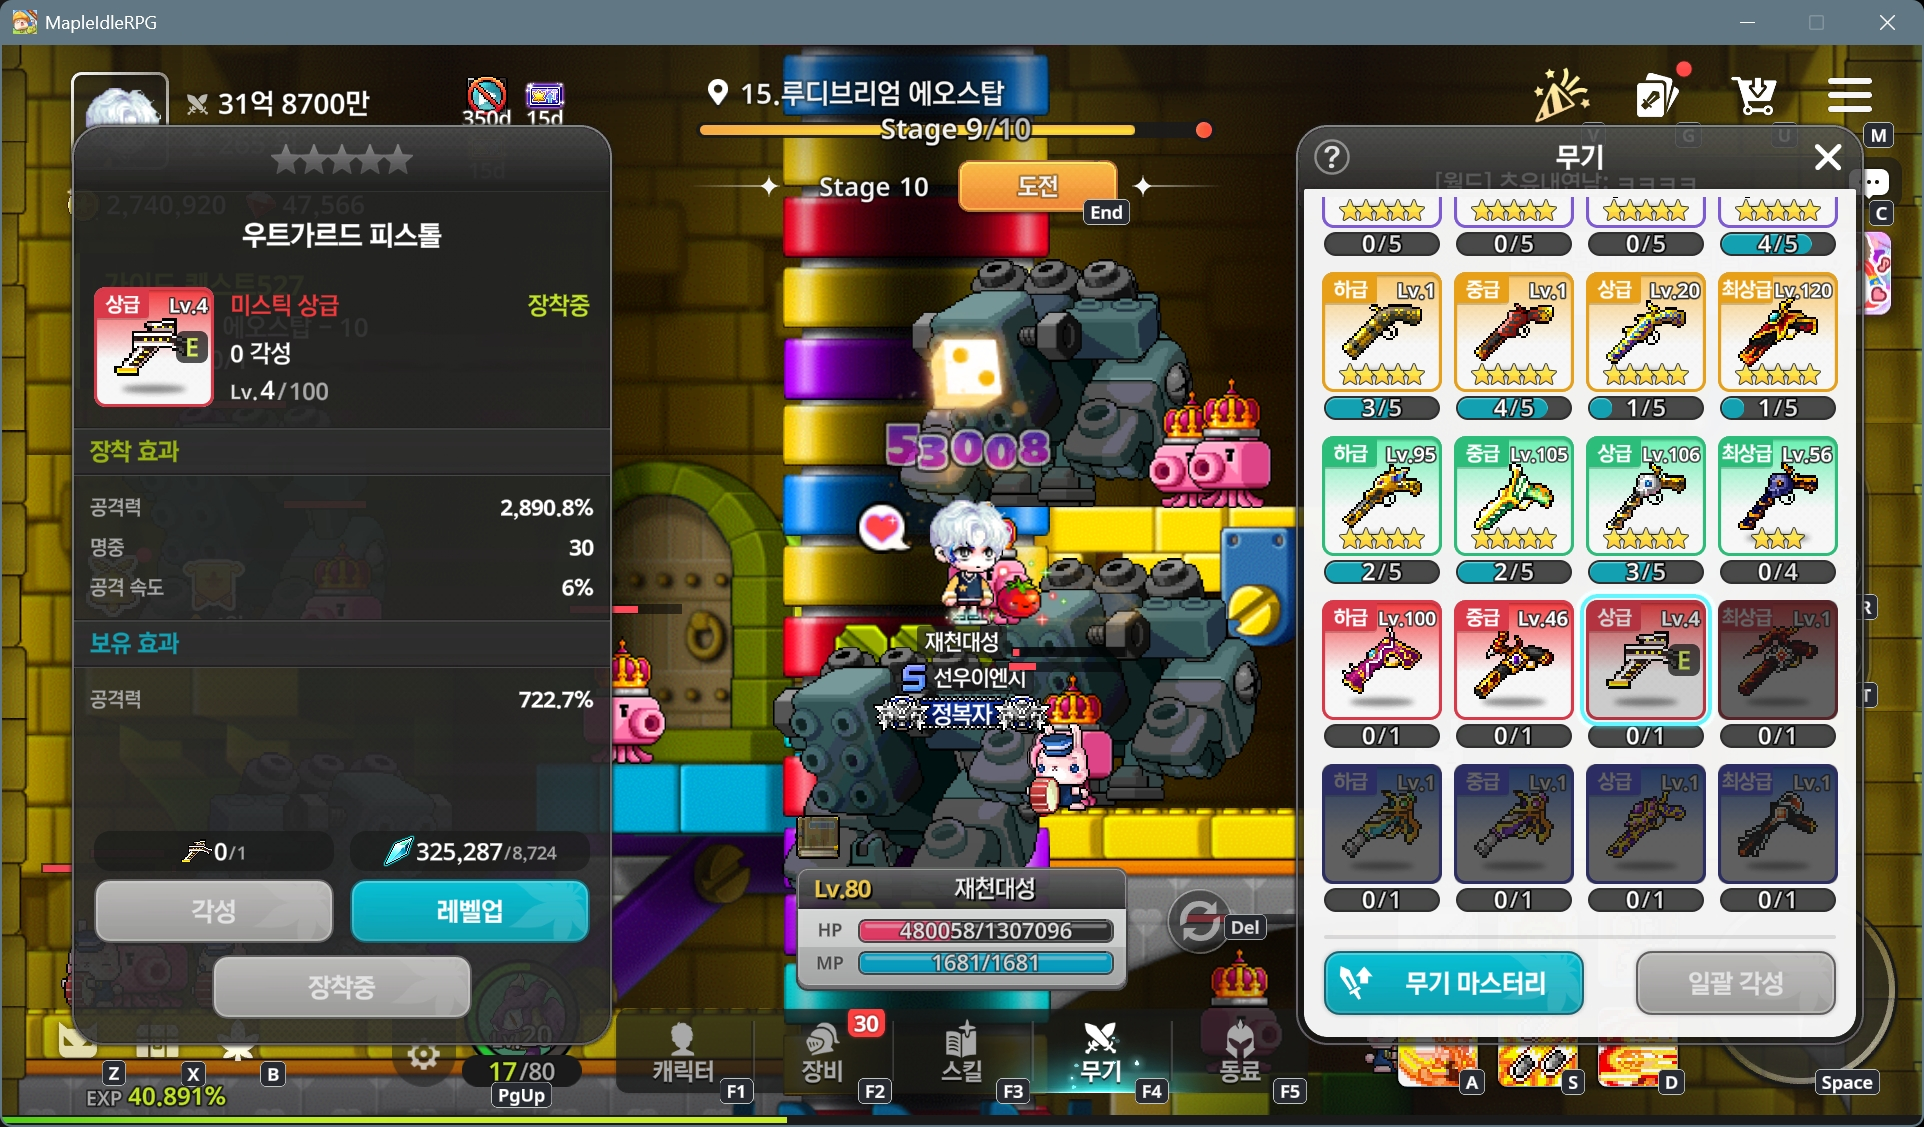
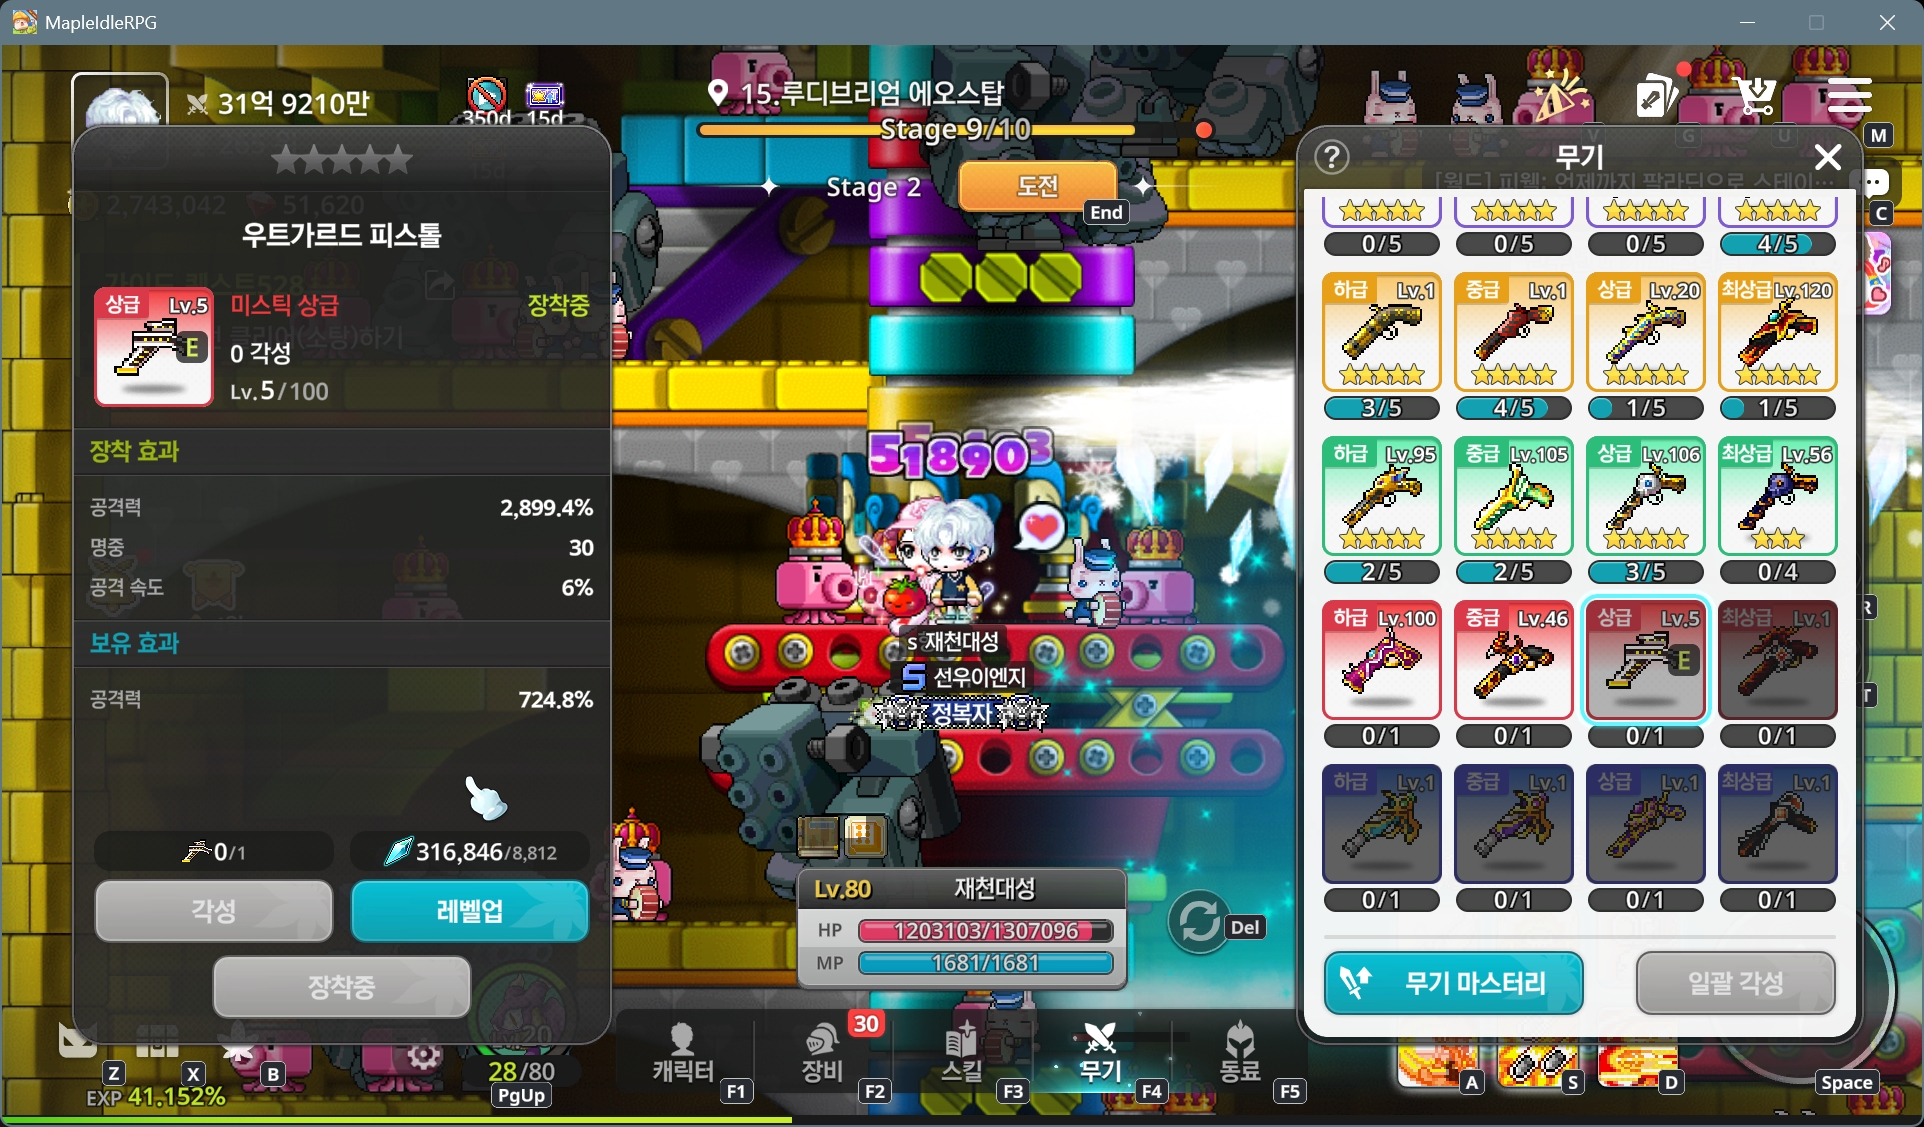
2026-06-04 auto

diff --git a/_progress/스탯-측정.md b/_progress/스탯-측정.md
@@ -78,7 +78,8 @@
 |---|--------|------|------|------|------|------|------|------|
 | 1 | **Lv.3** | [미측정] | 2,882.2% | 318,186 | 120,000,000 | 240,770,000 | 2.006× | 15:02~03 |
 | 2 | **Lv.4** | 6,673,823 | 2,890.6% | 318,700 | 126,000,000 | 260,000,000 | 2.063× | 15:0x |
-| 3 | Lv.5 | _대기_ | _대기_ | _대기_ | _대기_ | _대기_ | — | — |
+| 3 | **Lv.5** | 6,684,536 | 2,899.4% | 319,210 | 130,000,000 | 240,000,000 | 1.846× | 15:30 |
+| 4 | Lv.6 | _대기_ | _대기_ | _대기_ | _대기_ | _대기_ | — | — |
 
 > ✅ 공격력 6,673,823 = 럭키 다이스 변동분 0(관측 최소값), **Lv.4 값**으로 귀속 — 대표님 정정(2026-06-04, 직전 Lv.3 라벨 → Lv.4).
 > ⚠ 타격값은 실타격이라 변동분(0~6.3%)이 섞임. 단발이라 ±편차 있음 → 공격력 베이스와 별개 해석.
@@ -89,6 +90,16 @@
 >
 > ⚠ **[확인필요] Lv.3 공격력 최소값 공백** — Lv.3 깨끗한 공격력(변동분0)을 못 잡음. 무기 이미 Lv.4라 재측정 비가역. → 공격력 절대 증가량은 **Lv.4→Lv.5 쌍**으로 측정하거나 장착효과%로 환산.
 > 공식상 **실데미지 ∝ 공격력**(다른 항 고정) → 공격력비 = 실데미지비.
+
+### ⭐ [결과] 무기 1레벨 한계 기여 — Lv.4 → Lv.5 (첫 clean 측정)
+- 공격력: 6,673,823 → 6,684,536, **Δ +10,713 (+0.1605%)**
+- 장착효과%: 2,890.6 → 2,899.4, **+8.8%p**
+- 실데미지 ∝ 공격력 → **무기 1레벨업 = 실데미지 약 +0.16%** (Lv.4→5 구간)
+
+**장착효과% 레벨당 증가 (선형성):** Lv.2→3 +8.6 / Lv.3→4 +8.4 / Lv.4→5 +8.8 → 평균 **+8.6%p, 선형**.
+
+> ⚠ 타격값 단발 편차 큼: 크리/일반 = Lv.3 2.006× / Lv.4 2.063× / Lv.5 **1.846×**. 변동분(0~6.3%)+데미지범위(131~154.6%)가 매 타격 랜덤이라 단발 비교는 의미 약함 → **여러 방 평균** 필요. 공격력 최소값이 신뢰 신호.
+> [관측] 무기 1레벨 공격력 증가율(+0.16%)이 장착효과 증가(+8.8%p)에 비해 작음 → 공격력 = base×(1+Σ효과%) 구조에서 분모(총효과합 ≈ 수십 배)가 커서 한계 기여가 희석됨. 공격력 절대 증가량 측정이 정답인 이유.
 
 ### ✅ [검증 성공] 크리 배율 = 2.0× — 크리 모델 확정
 - 크리뎀 100% → 공식 크리 배율 `1 + 100/100` = **2.0×**
